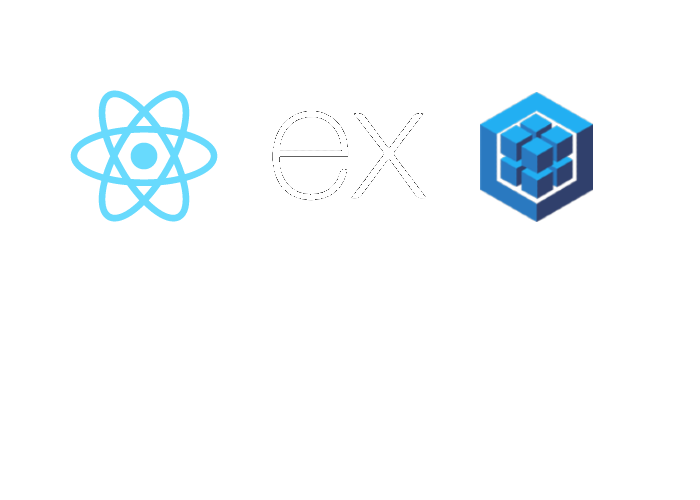
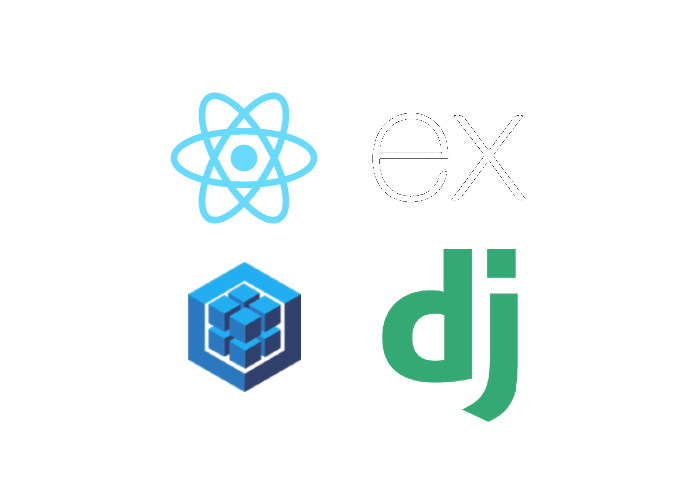
updating for django which will be covered this week

diff --git a/my-app/src/components/Skills.js b/my-app/src/components/Skills.js
@@ -22,8 +22,8 @@ export const Skills = () => {
                             
                             <div id="frameworksAndLibraries">
                                 <h4>Frameworks & Libraries</h4>
-                                <h6>React, Express, Sequelize,</h6>
-                                {/* <h6>Vue.js, Django</h6> */}
+                                <h6>React, Express, </h6>
+                                <h6>Sequelize, Django</h6>
                                 <img id="frameworksLibraries" src={FrameworksLibraries} alt="Frameworks and Libraries"/>
                             </div>
 
